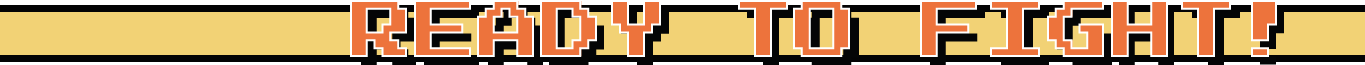
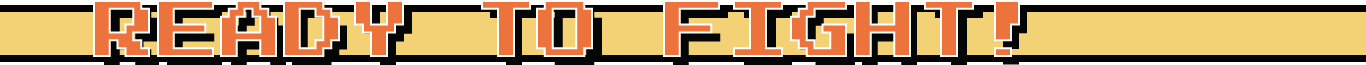
morestuff

diff --git a/src/js/script.js b/src/js/script.js
@@ -48,13 +48,26 @@ function character() {
         count++;
       } else if (element.className.includes("selected")) {
         count--;
-        players = players.splice(players.indexOf(element.className.split(' ')[1]) - 1, 1);
+        players = players.filter(function(player) { return player != element.className.split(' ')[1]; });
+        players[count] == undefined;
+        console.log(players[1]);
         element.classList.remove('selected');
         element.classList.remove('selectedPlayerTwo');
       }
       console.log(players);
+        document.getElementById("go").addEventListener("click", function(){
+      if (players[1] !== undefined && players[0] !== undefined) {
 
+          console.log("Go")
+          data.player1 = players[0]
+          data.player2 = players[1]
+      
+          oxo.screens.loadScreen('maps', map);
+      }
+          
+        });
     })
+
   });
 
   // document.getElementById("back").addEventListener("click", function(){
@@ -67,17 +80,10 @@ function character() {
   //     element.classList.remove("selectedPlayerTwo");
   //   })
   // });
-  document.getElementById("go").addEventListener("click", function(){
-    console.log("Go")
-    data.player1 = players[0]
-    data.player2 = players[1]
-
-    oxo.screens.loadScreen('maps', map);
-  });
 }
 
 function map(){
-  var elements = document.querySelectorAll('div.element');
+  var elements = document.querySelectorAll('div.element__maps');
   var count = 0;
   let map;
 

diff --git a/src/scss/blocs/characters.scss b/src/scss/blocs/characters.scss
@@ -8,16 +8,24 @@
   background: #373131;
 }
 .penone {
-  // width: 100%;
-  margin: 10px 250px 0;
+  width: 800px;
+  // margin: 10px 250px 0;
   opacity: 0;
   position: relative;
   animation: 1s appear 1 forwards;
-  max-width: 2000PX;
+  // max-width: 2000PX;
+  margin-left: 24%;
+  margin-top: 40px;
+}
+.catchphrase {
+  font-family: 'PressStart2P', 'atari_full', sans-serif;
+  text-align: center;
+  margin-top: 40px;
+  font-size: 20px;
 }
 
 .element {
-  margin: 0 7px 0 0;
+  // margin: 0 7px 0 0;
   display: inline-block;
   border: 4px solid white;
   border-radius: 30px; 
@@ -41,7 +49,7 @@
   background-color: #90B3C0;
 }
 .element.baptiste {
-  background: url('../images/characters/bastien.png') 45% 0 no-repeat;
+  background: url('../images/characters/baptiste.png') 45% 0 no-repeat;
   background-size: cover;
   background-color: #90B3C0;
 }
@@ -77,7 +85,7 @@
   height: 600px;
 }
 .back {
-  height: 98px;
+  height: 110px;
 }
 
 @-webkit-keyframes appear {
@@ -123,13 +131,13 @@
   border: 10px red solid;
 }
 .band {
-  margin-top: 100px;
-  width: 100%;
+  margin-top: 110px;
 }
 .go{
   position: absolute;
-  margin-top: 70px;
-  width: 10%;
+  margin-top: 100px;
+  margin-left: 1150px;
+  width: 100px;
 }
 .go:hover{
   transform:translateY(10px) 

diff --git a/src/screens/characters.html b/src/screens/characters.html
@@ -1,5 +1,7 @@
 <section class="characters">
-<img src="../images/return.png" alt="back" class="back" id="back">  
+<a href="javascript:history.back()">
+    <img src="../images/return.png" alt="back" class="back" id="back"></a>
+
 <section class="penone">
     <div class="element rayan"></div>
     <div class="element maeva"></div>
@@ -10,6 +12,7 @@
     <div class="element bastien"></div>
     <div class="element aymerick"></div>
 </section>  
+<p class="catchphrase">Choose a character!</p>
 <img src="../images/button.png" alt="go" class="go" id="go">
 <img src="../images/ready.png" alt="ready" class="band" id="band">
 </section>

diff --git a/src/scss/blocs/maps.scss b/src/scss/blocs/maps.scss
@@ -20,9 +20,12 @@
     margin-left: 70px;
 }
 .pen {
-  max-width: 635px;
+  // max-width: 635px;
+  margin-left: 15%;
+  margin-top: 50px;
+
   width: 100%;
-  margin: 50px auto 0;
+  // margin: 50px auto 0;
   opacity: 0;
   position: relative;
   animation: 1s appear 1 forwards;
@@ -88,5 +91,12 @@
   border: 10px red solid;
 }
 .band__maps{
-  margin-top:20px;
+  margin-top: 150px;
+}
+
+.go__maps{
+  position: absolute;
+  margin-top: 130px;
+  margin-left: 1150px;
+  width: 100px;
 }
